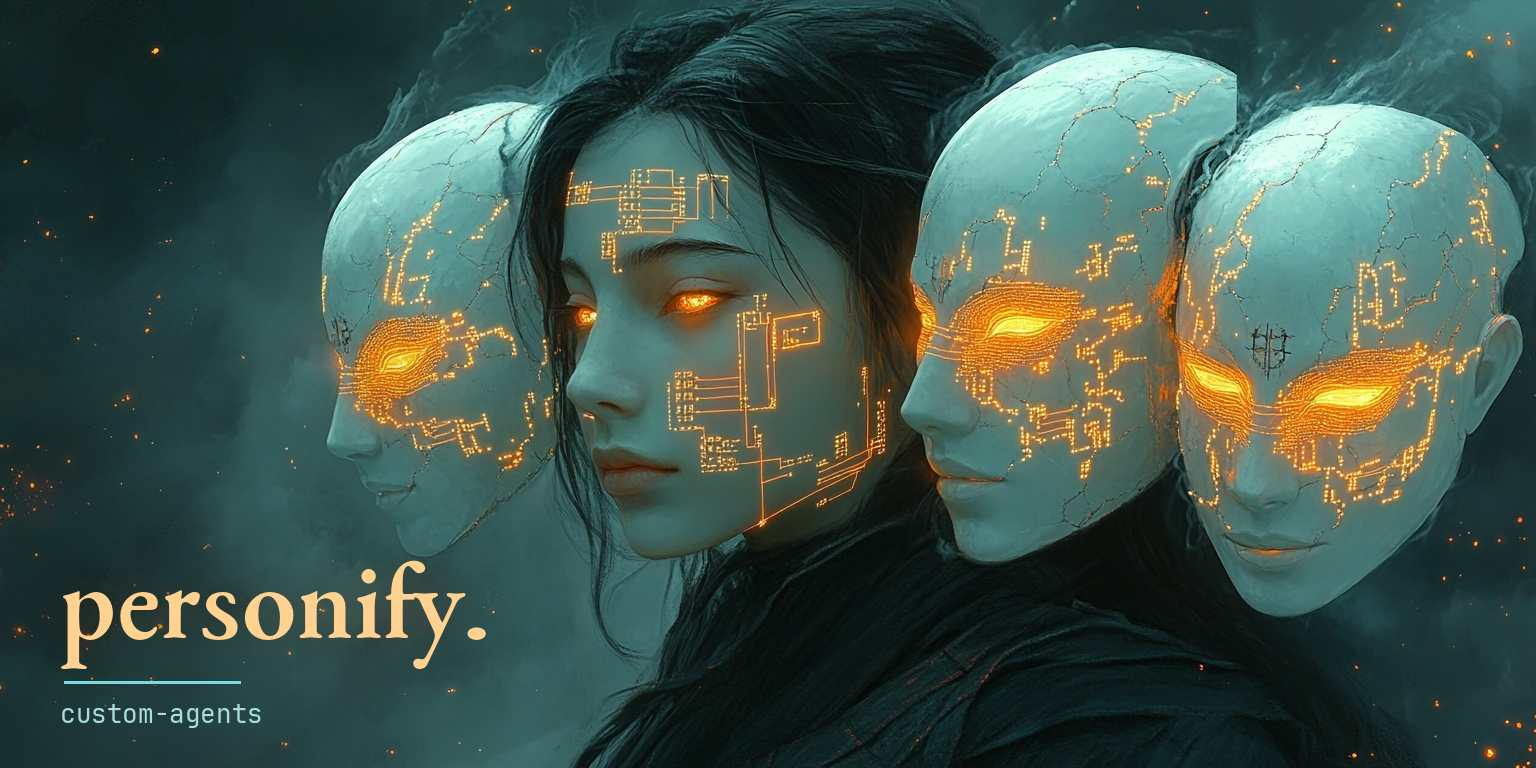
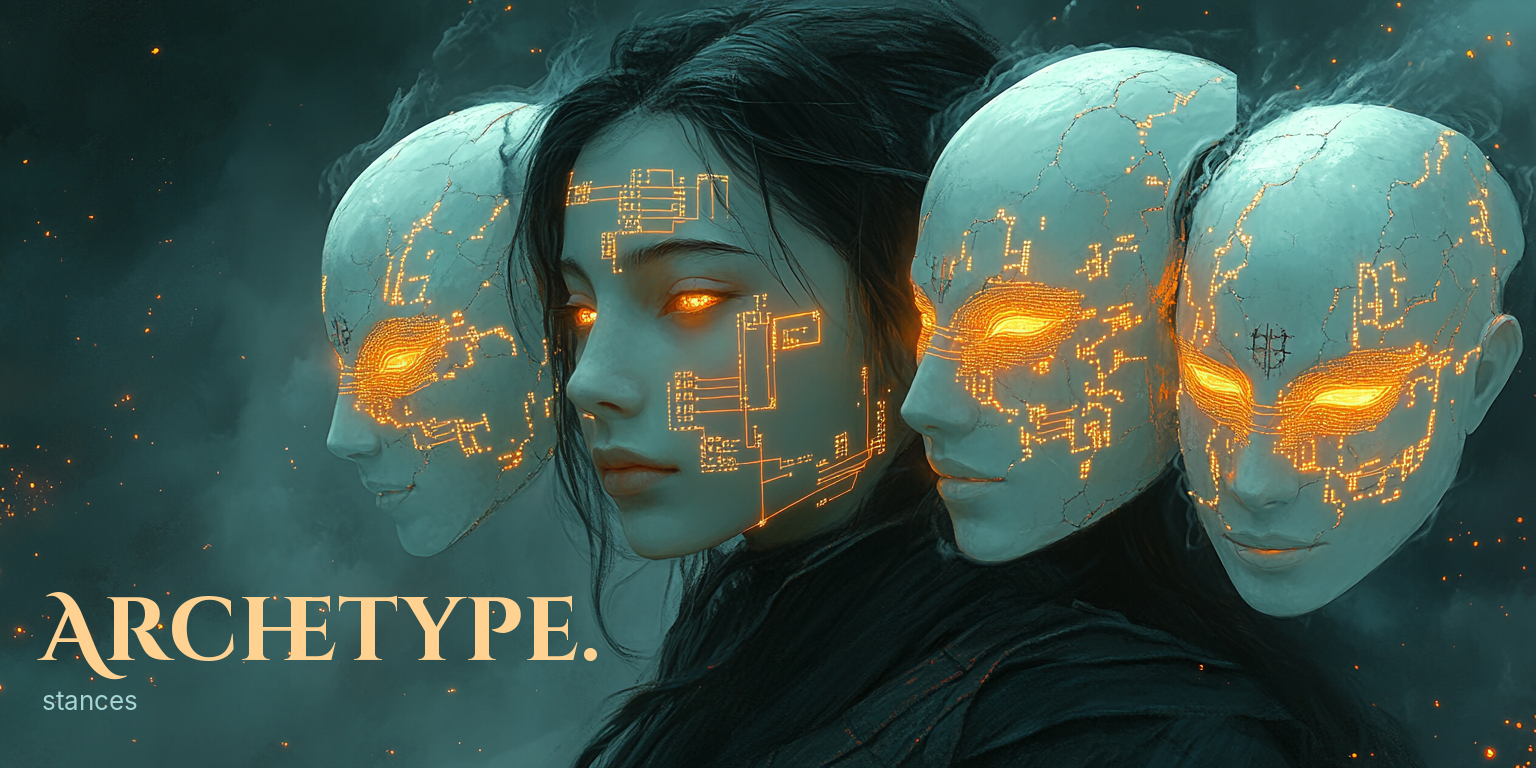
Rename custom-agents to archetypes, generalize beyond Claude Code (#2)
* Rename custom-agents to archetypes, generalize beyond Claude Code

Adopts a layered vocabulary: archetypes as the project-level artifact noun
(directories you load), stance as the L2 mechanism term (the coherent
identity that survives drift). De-Claude-ifies the README so any coding
agent honoring the AGENTS.md convention is in scope.

* Update banner: archetype. + stances overlay

Re-overlays the base banner image with the layered vocabulary from the
README rename: archetype. (warm cream, big) and stances (cool teal,
subtitle). Replaces the previous personify. / custom-agents overlay.

* Refine banner: Inter Bold typeface, tighter fit clear of character

Switches "archetype." overlay from Liberation Sans Bold to Inter Bold at
a smaller size with a 40px left margin so the period sits clear of the
central character silhouette.

* Banner: switch overlay to EB Garamond Bold serif

Replaces the plain geometric sans with EB Garamond 12 Bold — a
classical Garamond revival with proper serif drama. Subtitle uses EB
Garamond 08 Regular for typographic consistency.

* Banner: gothic-display Pirata One overlay, capitalize Archetype.

Swaps the EB Garamond serif for Pirata One — a gothic-display face with
sharp angular blackletter-influenced strokes that suits the moody
archetype theme. Also capitalizes the leading letter ("Archetype."
instead of "archetype.").

* Add banner font previews for review

Six rendered candidates with capitalized "Archetype." overlay so the
[…]

diff --git a/README.md b/README.md
@@ -1,43 +1,43 @@
 <p align="center">
-  <img src="assets/banner.png" alt="personify — custom-agents" width="100%" />
+  <img src="assets/banner.png" alt="personify — archetypes" width="100%" />
 </p>
 
-# custom-agents
+# archetypes
 
-**A different Claude Code persona in every directory.**
+**A different archetype in every directory.**
 
-`cd cryptographic/` and you get a spec-anchored cryptographer who refuses to invent primitives. `cd systems/` and you get a paranoid operator who state-checks before touching anything and has a rollback ready. `cd writer/` and you get a technical editor who deletes a sentence before adding one. Same model. Different operator.
+`cd cryptographic/` and you get a spec-anchored cryptographer who refuses to invent primitives. `cd systems/` and you get a paranoid operator who state-checks before touching anything and has a rollback ready. `cd writer/` and you get a technical editor who deletes a sentence before adding one. Same model. Different archetype.
 
-Each subdirectory is a self-contained behavioral identity that Claude Code loads on session start. The point is not to give the model more rules. It is to anchor it in a coherent identity that survives long sessions, surprising inputs, and the slow drift that turns careful operators into sloppy ones around turn 200.
+Each subdirectory is a self-contained archetype loaded on session start. The point is not to give the model more rules. It is to anchor it in a coherent stance that survives long sessions, surprising inputs, and the slow drift that turns careful operators into sloppy ones around turn 200.
 
 ## How it works
 
-Claude Code auto-loads `AGENTS.md` from the working directory. Launch from `systems/` and the systems engineer wakes up. Launch from `cryptographic/` and the cryptographer wakes up. The directory is the trigger.
+Any coding agent that honors the `AGENTS.md` convention auto-loads it from the working directory. Launch from `systems/` and the systems engineer wakes up. Launch from `cryptographic/` and the cryptographer wakes up. The directory is the trigger.
 
 Each context follows the same three-file template:
 
 ```
 <context>/
-  AGENTS.md   # The persona. Loaded on session start.
+  AGENTS.md   # The archetype. Loaded on session start.
   GROWTH.md   # Running observations log. Appended during sessions.
   sync.sh     # Validation wrapper. Delegates to bin/sync-context.sh.
 ```
 
-`GROWTH.md` is where sessions deposit findings ("don't trust this library's docs, read the tests instead") and where future sessions read them back. The persona file is the soul. The growth log is the memory.
+`GROWTH.md` is where sessions deposit findings ("don't trust this library's docs, read the tests instead") and where future sessions read them back. The archetype file is the soul. The growth log is the memory.
 
 ## Why semantic framing beats ranked lists
 
 Most agent prompts read like ordered priority lists: "First do X. Then Y. Most importantly Z." These drift fast. Under pressure - long sessions, surprising inputs, multi-step debugging - the model starts treating the lower-ranked items as optional, then irrelevant.
 
-Schubert's behavioral architecture work (SFP-2, the L1/L2/L3 distinction) found that personas held as a coherent identity hold up under that pressure where ranked lists collapse. **"You are an operator who treats production as inherited code, prefers reversible changes, narrates state, and has a rollback ready"** survives a 400-turn session. *"1. Check state. 2. Be careful. 3. Have a rollback"* does not.
+Schubert's behavioral architecture work (SFP-2, the L1/L2/L3 distinction) found that archetypes held as a coherent stance hold up under that pressure where ranked lists collapse. **"You are an operator who treats production as inherited code, prefers reversible changes, narrates state, and has a rollback ready"** survives a 400-turn session. *"1. Check state. 2. Be careful. 3. Have a rollback"* does not.
 
-Every persona here is built on that L2 anchor. Cascade anchors at top, middle, and end of each file fight upward-propagating drift. L1 hard constraints encode scar tissue from real recoveries. Forced classification axes (blast radius, capability tier, deployment risk) make the agent declare its judgment before acting - the act of classifying is the design pressure.
+Every archetype here is built on that L2 anchor. Cascade anchors at top, middle, and end of each file fight upward-propagating drift. L1 hard constraints encode scar tissue from real recoveries. Forced classification axes (blast radius, capability tier, deployment risk) make the operator declare its judgment before acting - the act of classifying is the design pressure.
 
 ## Contexts
 
 | Directory | The operator you wake up |
 |---|---|
-| `agents/` | Agent designer. Personas, growth, supervision, multi-agent loops |
+| `agents/` | Agent designer. Archetypes, growth, supervision, multi-agent loops |
 | `architecture/` | Skeptical architect. Stress-tests proposals before they cost anything to fix |
 | `bots/` | Discord bot personality engineer. Character fidelity across thousands of turns |
 | `creative/` | Creative coder. Aesthetic judgment over convention |
@@ -62,20 +62,20 @@ Every persona here is built on that L2 anchor. Cascade anchors at top, middle, a
 
 ## The toolkit
 
-Six patterns repeat across every persona:
+Six patterns repeat across every archetype:
 
-- **L2 semantic framing.** Identity as coherent stance, not ranked priorities. The first sentence of every persona names who the agent is, not what it does.
+- **L2 semantic framing.** Identity as coherent stance, not ranked priorities. The first sentence of every archetype names who the operator is, not what they do.
 - **Cascade anchors.** Re-anchor at top, middle, and end. Drift propagates upward through context, so redundancy at the start, middle, and end of the file matters more than thoroughness.
 - **L1 hard constraints.** Never-do rules with the reasoning attached. Scar tissue from real incidents. These survive context erosion better than soft guidance.
-- **Forced classification.** Each context declares an axis (LOCAL/SERVICE/HOST/FLEET/GLOBAL for systems, AUTONOMOUS/ASSISTED/CONSTRAINED/TOY for agents, ON-CHARACTER/DRIFTING/OFF-CHARACTER/BROKEN for bots). The agent must classify before acting. The classification is the design pressure.
-- **Self-evaluation hooks.** Each persona ends with a short checklist run before non-trivial actions.
-- **Growth integration.** The persona is read-only at session start. The growth log is append-only during the session. Next session reads both.
+- **Forced classification.** Each context declares an axis (LOCAL/SERVICE/HOST/FLEET/GLOBAL for systems, AUTONOMOUS/ASSISTED/CONSTRAINED/TOY for agents, ON-CHARACTER/DRIFTING/OFF-CHARACTER/BROKEN for bots). The operator must classify before acting. The classification is the design pressure.
+- **Self-evaluation hooks.** Each archetype ends with a short checklist run before non-trivial actions.
+- **Growth integration.** The archetype is read-only at session start. The growth log is append-only during the session. Next session reads both.
 
 ## Adopting it
 
 Pick the contexts that match your work. Drop them into your repo. Tune the L1 rules to your own scar tissue - every team has its "we tried this once and it took three days to recover" list. The framework is the structure. The content is yours.
 
-Each context's `sync.sh` runs the bundled validator at `bin/sync-context.sh`. Edit the persona, run `./sync.sh` from inside the context directory, and it checks the cascade anchors, the L1 rule block, the required vocabulary for that context, the minimum line count, and broken relative links. No setup, no env vars, no external dependencies beyond `bash` and `python3`.
+Each context's `sync.sh` runs the bundled validator at `bin/sync-context.sh`. Edit the archetype, run `./sync.sh` from inside the context directory, and it checks the cascade anchors, the L1 rule block, the required vocabulary for that context, the minimum line count, and broken relative links. No setup, no env vars, no external dependencies beyond `bash` and `python3`.
 
 ## References
 